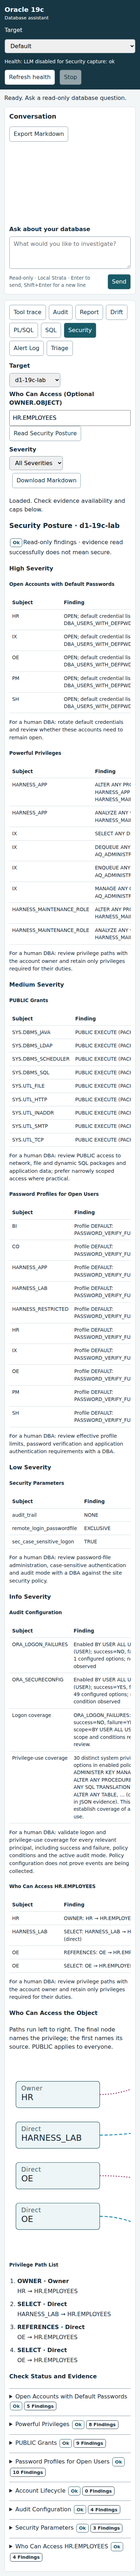
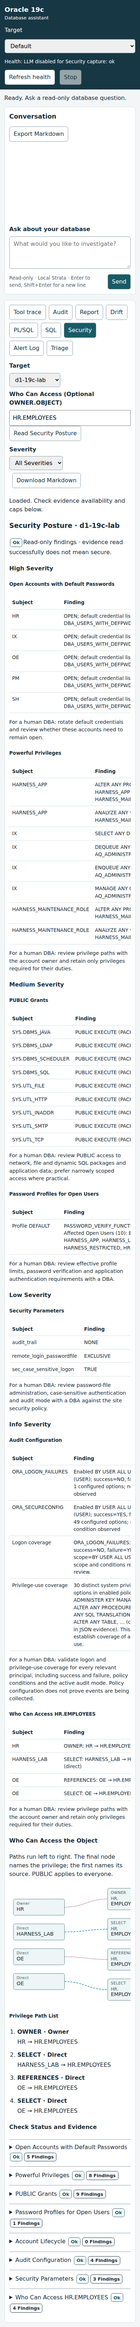
Refresh all Security captures and document review fixes

Changed region(s): [[0.0615, 0.0936, 0.9538, 0.9983], [0.0, 0.0, 1.0, 0.0624], [0.7692, 0.0936, 0.9538, 0.1248]]

diff --git a/docs/wp-20c-security-web.md b/docs/wp-20c-security-web.md
@@ -104,3 +104,51 @@ containers or Strata configuration changed. No LLM calls, full integration suite
 evals, push, merge or PR. No requested contract changes. Live observations are
 transient, not a security certification; core reachability limitations in
 security.md still apply. No live nested-role/PUBLIC/ANY fixture was created.
+
+## Coordinator Review Follow-up
+
+The coordinator found that the initial d1 desktop graph cut off its fourth route
+and scaled its node text too large. The earlier visual review missed that cutoff.
+Security now opts into an explicit 0.75 graph scale: the SVG has intrinsic width
+and height derived from its layout instead of stretching to the panel width.
+Security CSS respects those dimensions. Node labels render at 14.25 px (owner
+labels 12 px; kind labels 10.5 px), alongside the page's 16 px body and 13.6 px
+tables. Both live graphs fit vertically in their containers, including d1's final
+Direct OE → SELECT HR.EMPLOYEES route. Larger graphs still scroll within the
+bounded viewport; phone graphs may require horizontal scrolling. The shared
+PL/SQL renderer keeps its original sizing/fonts when no scale is supplied.
+
+Profile findings now aggregate in `readSecurityPosture`, keyed by profile,
+resource and effective limit. Each finding names the profile and limit once and
+lists the sorted, distinct affected open custom users. DEFAULT inheritance still
+resolves before grouping, and separate profiles/resources remain separate rows.
+For example, d1 now has one DEFAULT / PASSWORD_VERIFY_FUNCTION=NULL finding with
+10 users; p1 has one with two users. CLI Markdown, report consumers and web all
+receive these grouped findings. Raw profile/user evidence remains complete and
+unchanged, including accounts excluded from findings. Findings counts now count
+profile-limit groups rather than affected users. No contract shape changed.
+
+All eight linked images were retaken after both fixes. Reviewed the full d1 dark
+desktop capture and graph/list crops from every target/theme/width: the last path
+is visible, fonts are consistent with page scale, light/dark labels remain
+readable, and graphs no longer stretch across the desktop panel. Live capture
+assertions check the final node's bottom against its container, no vertical graph
+overflow for these live paths, rendered label size between 13 and 16 px, and no
+horizontal page overflow at all eight sizes/themes. The existing locally scrolling
+phone evidence and graph layout remains intentional.
+
+Follow-up verification (no LLM calls):
+
+- `npm run typecheck`: passed.
+- `npm test`: 85 files, 1,254 tests passed.
+- `PIAGENT_BROWSER_LIVE=0 PIAGENT_ALERTLOG_LIVE=0 PIAGENT_SQL_LIVE=0 PIAGENT_SECURITY_LIVE=0 npm run test:browser`: 52 passed, 4 opt-in live tests skipped. Includes existing PL/SQL graph layout/contrast tests and an explicit default-renderer sizing regression check.
+- `PIAGENT_SECRET_DIR=/home/kiwi/OracleDBHarness/databases/secrets npx vitest run tests/integration/security.test.ts tests/integration/web-security.test.ts`: 4 passed in two files, no skips. Live core assertions verify the single DEFAULT verify-function group and affected-user count on both targets.
+- `PIAGENT_SECRET_DIR=/home/kiwi/OracleDBHarness/databases/secrets PIAGENT_SECURITY_LIVE=1 npx playwright test tests/browser/security-live.spec.ts`: 1 passed, all eight images refreshed.
+
+Additional changed files: `src/security/index.ts`, `tests/unit/security.test.ts`,
+`tests/integration/security.test.ts`, and the grouping note in `docs/security.md`.
+Other follow-up edits are confined to the previously listed graph/UI/browser files,
+this report and the eight screenshots. No shared contract or dependency changes
+are required. No full integration suite, database mutations, Strata calls, push or
+merge were performed. Live evidence remains transient; no new grant fixtures
+were created.
